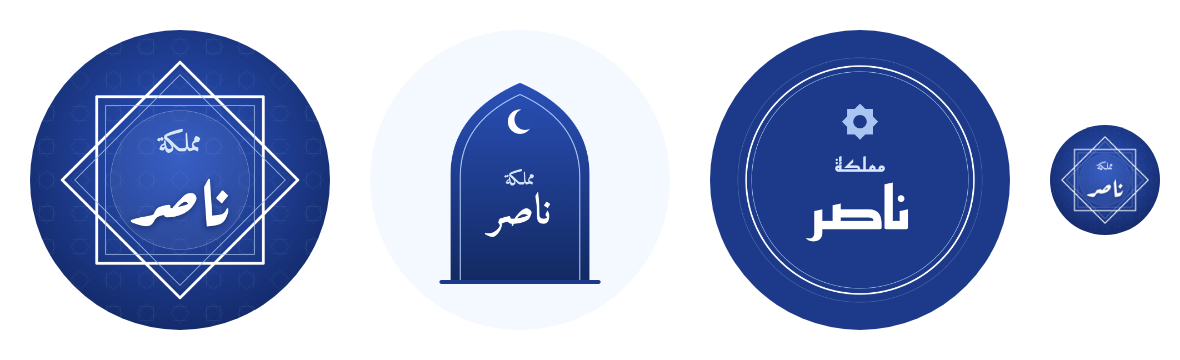
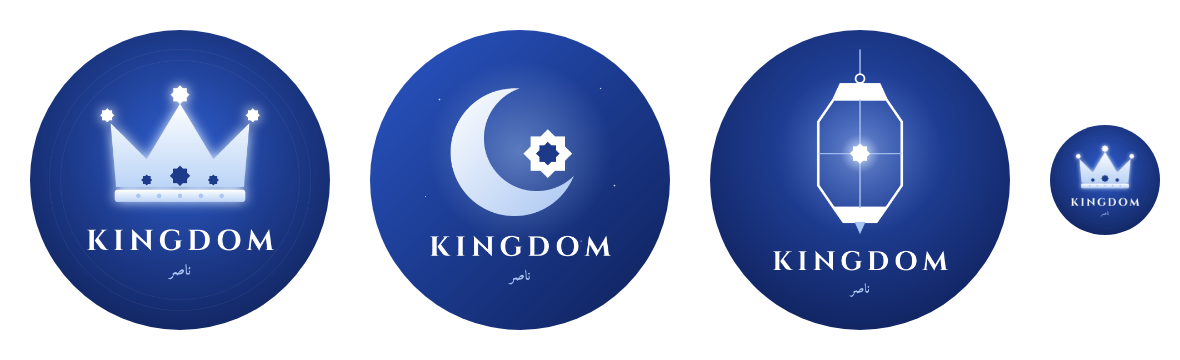
Redesign Instagram profile picture: symbols with KINGDOM wordmark
Replaces the name-centred designs with three symbol options (crown,
crescent and star, lantern), the KINGDOM wordmark in English as the
owner asked, and the name in small Arabic type. Same colour palette.

Claude-Session: https://claude.ai/code/session_01VMqqdXK5QCjGviSbVZmjrf

Changed region(s): [[0.3051, 0.0611, 0.8542, 0.9167], [0.0305, 0.1833, 0.2746, 0.825], [0.8847, 0.3972, 0.9763, 0.6111]]

diff --git a/brand/profile/profile.html b/brand/profile/profile.html
@@ -1,74 +1,91 @@
-<!doctype html><html lang="ar" dir="rtl"><head><meta charset="utf-8">
-<link rel="stylesheet" href="https://fonts.googleapis.com/css2?family=Amiri:wght@700&family=Aref+Ruqaa:wght@700&family=Reem+Kufi:wght@600;700&display=swap">
+<!doctype html><html><head><meta charset="utf-8">
+<link rel="stylesheet" href="https://fonts.googleapis.com/css2?family=Cinzel:wght@600;700;800&family=Amiri:wght@700&display=swap">
 <style>
-html,body{margin:0;padding:0;background:#000}
+html,body{margin:0;background:#000}
 .c{width:1080px;height:1080px;position:relative;overflow:hidden}
 svg{position:absolute;inset:0}
-.t{position:absolute;inset:0;display:flex;flex-direction:column;align-items:center;justify-content:center;color:#fff;text-align:center}
+.word{position:absolute;left:0;right:0;text-align:center;font-family:'Cinzel';font-weight:700;color:#fff;letter-spacing:18px;padding-left:18px}
+.ar{position:absolute;left:0;right:0;text-align:center;font-family:'Amiri';color:#a9c6f2;direction:rtl}
 </style></head><body>
+
+<!-- 1: geometric crown -->
 <div class="c" id="v1">
- <svg viewBox="0 0 1080 1080" width="1080" height="1080">
+ <svg viewBox="0 0 1080 1080">
   <defs>
-   <radialGradient id="g1" cx="50%" cy="42%" r="70%"><stop offset="0" stop-color="#2c55c2"/><stop offset=".55" stop-color="#1d3a8a"/><stop offset="1" stop-color="#0f2259"/></radialGradient>
-   <pattern id="p1" width="120" height="120" patternUnits="userSpaceOnUse">
-    <g fill="none" stroke="#a9c6f2" stroke-opacity=".10" stroke-width="2">
-     <rect x="35" y="35" width="50" height="50"/><rect x="35" y="35" width="50" height="50" transform="rotate(45 60 60)"/>
-    </g>
-   </pattern>
+   <radialGradient id="bg1" cx="50%" cy="40%" r="75%"><stop offset="0" stop-color="#2f5fd0"/><stop offset=".5" stop-color="#1d3a8a"/><stop offset="1" stop-color="#0c1c4d"/></radialGradient>
+   <linearGradient id="cr1" x1="0" y1="0" x2="0" y2="1"><stop offset="0" stop-color="#ffffff"/><stop offset="1" stop-color="#bcd5f7"/></linearGradient>
+   <filter id="gl1" x="-50%" y="-50%" width="200%" height="200%"><feGaussianBlur stdDeviation="22" result="b"/><feMerge><feMergeNode in="b"/><feMergeNode in="SourceGraphic"/></feMerge></filter>
+   <g id="star"><rect x="-1" y="-1" width="2" height="2"/><rect x="-1" y="-1" width="2" height="2" transform="rotate(45)"/></g>
   </defs>
-  <rect width="1080" height="1080" fill="url(#g1)"/>
-  <rect width="1080" height="1080" fill="url(#p1)"/>
-  <g transform="translate(540 540)" fill="none">
-   <g stroke="#ffffff" stroke-width="10" stroke-linejoin="round">
-    <rect x="-300" y="-300" width="600" height="600"/>
-    <rect x="-300" y="-300" width="600" height="600" transform="rotate(45)"/>
+  <rect width="1080" height="1080" fill="url(#bg1)"/>
+  <g stroke="#a9c6f2" stroke-opacity=".12" fill="none" stroke-width="2">
+   <circle cx="540" cy="540" r="470"/><circle cx="540" cy="540" r="430"/>
+  </g>
+  <g transform="translate(540 455)" filter="url(#gl1)">
+   <path d="M-230 110 L-250 -120 L-120 10 L0 -190 L120 10 L250 -120 L230 110 Z" fill="url(#cr1)"/>
+   <rect x="-235" y="120" width="470" height="44" rx="10" fill="url(#cr1)"/>
+   <g fill="#1d3a8a">
+    <use href="#star" transform="translate(0 70) scale(26)"/>
+    <use href="#star" transform="translate(-120 85) scale(14)"/>
+    <use href="#star" transform="translate(120 85) scale(14)"/>
    </g>
-   <g stroke="#a9c6f2" stroke-width="3" stroke-linejoin="round" opacity=".9">
-    <rect x="-268" y="-268" width="536" height="536"/>
-    <rect x="-268" y="-268" width="536" height="536" transform="rotate(45)"/>
+   <g fill="#ffffff">
+    <use href="#star" transform="translate(0 -222) scale(24)"/>
+    <use href="#star" transform="translate(-262 -148) scale(18)"/>
+    <use href="#star" transform="translate(262 -148) scale(18)"/>
    </g>
-   <circle r="250" fill="#ffffff" fill-opacity=".06" stroke="#ffffff" stroke-opacity=".35" stroke-width="2"/>
+   <g fill="#a9c6f2"><circle cx="-150" cy="142" r="8"/><circle cx="-75" cy="142" r="8"/><circle cx="0" cy="142" r="8"/><circle cx="75" cy="142" r="8"/><circle cx="150" cy="142" r="8"/></g>
   </g>
  </svg>
- <div class="t">
-  <div style="font-family:'Amiri';font-size:96px;color:#d7e6fa;line-height:1;margin-bottom:0">مملكة</div>
-  <div style="font-family:'Aref Ruqaa';font-size:250px;line-height:1.05;margin-top:-6px;text-shadow:0 6px 24px rgba(8,20,60,.45)">ناصر</div>
- </div>
+ <div class="word" style="top:690px;font-size:104px">KINGDOM</div>
+ <div class="ar" style="top:822px;font-size:52px">ناصر</div>
 </div>
 
+<!-- 2: crescent embracing a star -->
 <div class="c" id="v2">
- <svg viewBox="0 0 1080 1080" width="1080" height="1080">
-  <defs><linearGradient id="g2" x1="0" y1="0" x2="0" y2="1"><stop offset="0" stop-color="#2a50b8"/><stop offset="1" stop-color="#142a63"/></linearGradient></defs>
-  <rect width="1080" height="1080" fill="#f4f8ff"/>
-  <path d="M290 900 V520 Q290 300 540 190 Q790 300 790 520 V900 Z" fill="url(#g2)"/>
-  <path d="M325 900 V528 Q325 330 540 232 Q755 330 755 528 V900" fill="none" stroke="#a9c6f2" stroke-width="4"/>
-  <g transform="translate(540 330)">
-   <circle r="44" fill="#ffffff"/><circle cx="18" cy="-8" r="38" fill="#2449a6"/>
+ <svg viewBox="0 0 1080 1080">
+  <defs>
+   <linearGradient id="bg2" x1="0" y1="0" x2="1" y2="1"><stop offset="0" stop-color="#2a56c6"/><stop offset="1" stop-color="#0e2058"/></linearGradient>
+   <linearGradient id="mo2" x1="0" y1="0" x2="1" y2="1"><stop offset="0" stop-color="#ffffff"/><stop offset="1" stop-color="#a9c6f2"/></linearGradient>
+   <radialGradient id="halo2"><stop offset="0" stop-color="#a9c6f2" stop-opacity=".45"/><stop offset="1" stop-color="#a9c6f2" stop-opacity="0"/></radialGradient>
+   <mask id="m2"><rect width="1080" height="1080" fill="#fff"/><circle cx="600" cy="390" r="190" fill="#000"/></mask>
+  </defs>
+  <rect width="1080" height="1080" fill="url(#bg2)"/>
+  <circle cx="540" cy="440" r="330" fill="url(#halo2)"/>
+  <g fill="#ffffff" opacity=".8"><circle cx="250" cy="250" r="3"/><circle cx="830" cy="210" r="2.5"/><circle cx="880" cy="560" r="3"/><circle cx="200" cy="600" r="2"/><circle cx="760" cy="760" r="2"/><circle cx="320" cy="790" r="2.5"/></g>
+  <circle cx="520" cy="440" r="230" fill="url(#mo2)" mask="url(#m2)"/>
+  <g transform="translate(640 445)" fill="#ffffff">
+   <rect x="-62" y="-62" width="124" height="124"/><rect x="-62" y="-62" width="124" height="124" transform="rotate(45)"/>
+   <g fill="#1d3a8a"><rect x="-30" y="-30" width="60" height="60"/><rect x="-30" y="-30" width="60" height="60" transform="rotate(45)"/></g>
   </g>
-  <rect x="250" y="900" width="580" height="14" rx="7" fill="#1d3a8a"/>
  </svg>
- <div class="t" style="padding-top:170px">
-  <div style="font-family:'Amiri';font-size:66px;color:#d7e6fa;line-height:1">مملكة</div>
-  <div style="font-family:'Amiri';font-size:150px;line-height:1.15">ناصر</div>
- </div>
+ <div class="word" style="top:715px;font-size:100px">KINGDOM</div>
+ <div class="ar" style="top:843px;font-size:50px">ناصر</div>
 </div>
 
+<!-- 3: lantern -->
 <div class="c" id="v3">
- <svg viewBox="0 0 1080 1080" width="1080" height="1080">
-  <rect width="1080" height="1080" fill="#1d3a8a"/>
-  <g transform="translate(540 540)" fill="none" stroke="#ffffff">
-   <circle r="440" stroke-opacity=".25" stroke-width="2"/>
-   <circle r="410" stroke-width="6"/>
-   <circle r="390" stroke="#a9c6f2" stroke-width="2"/>
+ <svg viewBox="0 0 1080 1080">
+  <defs>
+   <radialGradient id="bg3" cx="50%" cy="38%" r="75%"><stop offset="0" stop-color="#284fb6"/><stop offset="1" stop-color="#0d1d52"/></radialGradient>
+   <radialGradient id="glow3"><stop offset="0" stop-color="#ffffff" stop-opacity=".95"/><stop offset=".35" stop-color="#d7e6fa" stop-opacity=".6"/><stop offset="1" stop-color="#a9c6f2" stop-opacity="0"/></radialGradient>
+  </defs>
+  <rect width="1080" height="1080" fill="url(#bg3)"/>
+  <circle cx="540" cy="440" r="300" fill="url(#glow3)" opacity=".35"/>
+  <line x1="540" y1="70" x2="540" y2="160" stroke="#a9c6f2" stroke-width="5"/>
+  <circle cx="540" cy="175" r="16" fill="none" stroke="#ffffff" stroke-width="6"/>
+  <g transform="translate(540 0)" fill="none" stroke="#ffffff" stroke-width="9" stroke-linejoin="round">
+   <path d="M-70 195 L70 195 L95 250 L-95 250 Z" fill="#ffffff"/>
+   <path d="M-95 250 L-150 330 L-150 560 L-95 640 L95 640 L150 560 L150 330 L95 250"/>
+   <path d="M-95 640 L-60 690 L60 690 L95 640" fill="#ffffff"/>
+   <line x1="0" y1="250" x2="0" y2="640" stroke-width="5" stroke="#a9c6f2"/>
+   <line x1="-150" y1="445" x2="150" y2="445" stroke-width="4" stroke="#a9c6f2"/>
   </g>
-  <g transform="translate(540 330)">
-   <g fill="#a9c6f2"><rect x="-46" y="-46" width="92" height="92"/><rect x="-46" y="-46" width="92" height="92" transform="rotate(45)"/></g>
-   <circle r="24" fill="#1d3a8a"/>
-  </g>
+  <circle cx="540" cy="445" r="70" fill="url(#glow3)"/>
+  <g transform="translate(540 445)" fill="#ffffff"><rect x="-26" y="-26" width="52" height="52"/><rect x="-26" y="-26" width="52" height="52" transform="rotate(45)"/></g>
+  <path d="M520 690 L540 735 L560 690 Z" fill="#a9c6f2"/>
  </svg>
- <div class="t" style="padding-top:120px">
-  <div style="font-family:'Reem Kufi';font-weight:600;font-size:70px;color:#d7e6fa;line-height:1;margin-bottom:18px">مملكة</div>
-  <div style="font-family:'Reem Kufi';font-weight:700;font-size:210px;line-height:1">ناصر</div>
- </div>
+ <div class="word" style="top:770px;font-size:96px">KINGDOM</div>
+ <div class="ar" style="top:893px;font-size:46px">ناصر</div>
 </div>
 </body></html>

diff --git a/brand/profile/preview.html b/brand/profile/preview.html
@@ -1,3 +1,3 @@
 <!doctype html><meta charset="utf-8"><body style="margin:0;background:#fff;display:flex;gap:40px;padding:30px;align-items:center">
-<img src="1-النجمة-المقترحة.png" style="width:300px;height:300px;border-radius:50%"><img src="2-المحراب.png" style="width:300px;height:300px;border-radius:50%"><img src="3-الختم.png" style="width:300px;height:300px;border-radius:50%">
-<img src="1-النجمة-المقترحة.png" style="width:110px;height:110px;border-radius:50%"></body>
+<img src="1-التاج-المقترح.png" style="width:300px;height:300px;border-radius:50%"><img src="2-الهلال-والنجمة.png" style="width:300px;height:300px;border-radius:50%"><img src="3-الفانوس.png" style="width:300px;height:300px;border-radius:50%">
+<img src="1-التاج-المقترح.png" style="width:110px;height:110px;border-radius:50%"></body>
